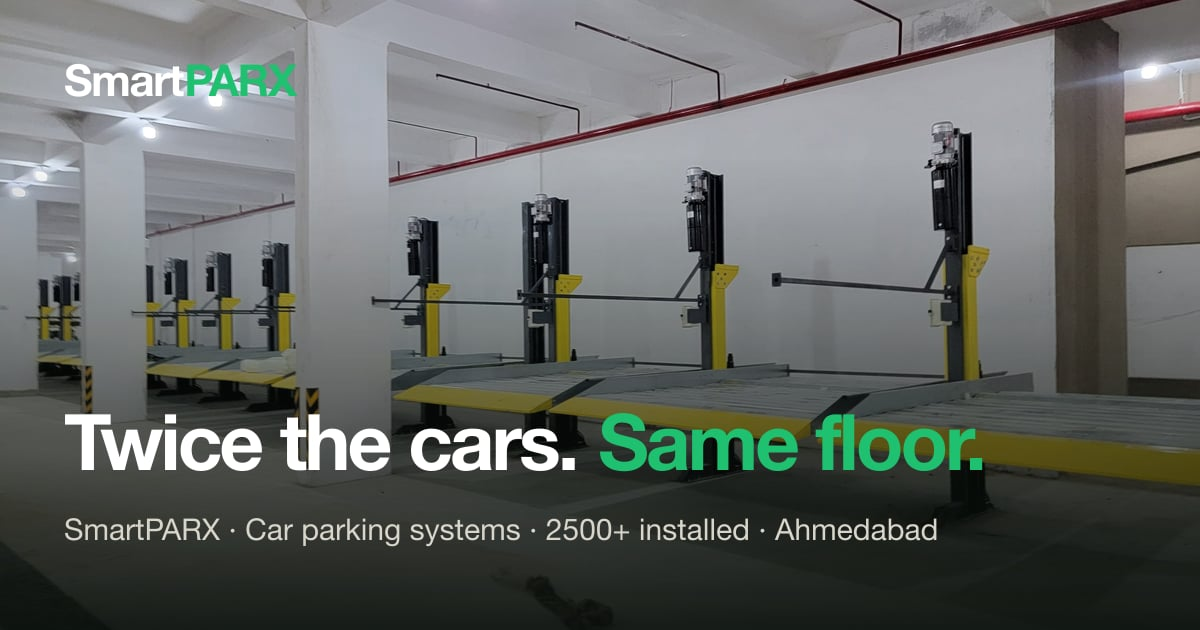
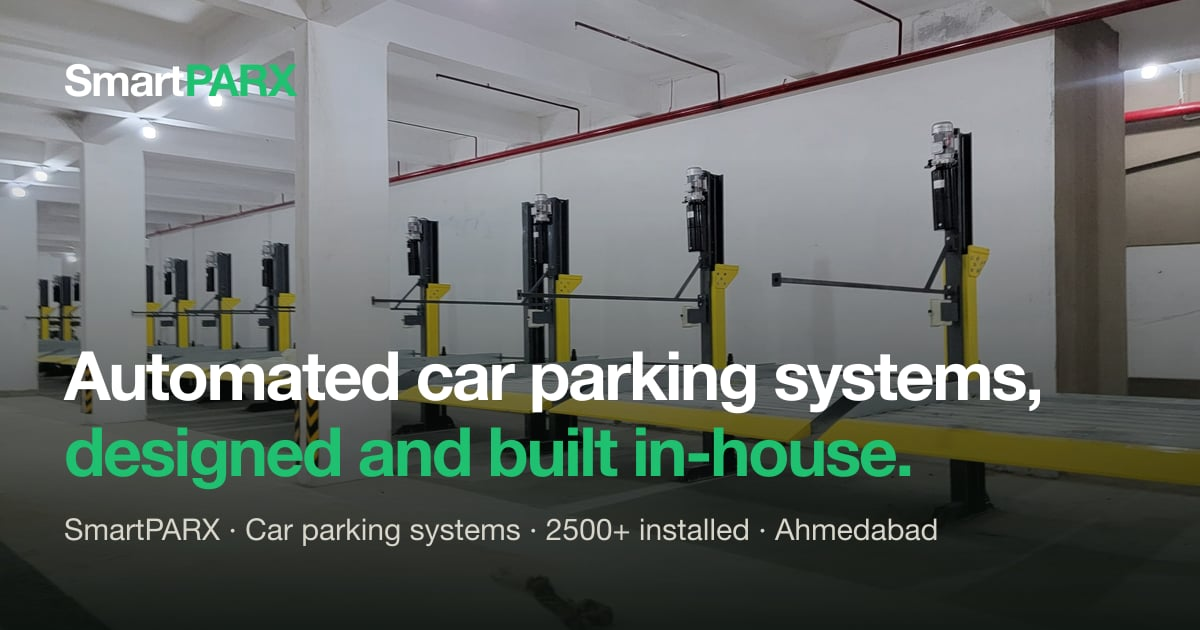
Update text styles across multiple components for consistency and clarity. Introduced new display utility classes for headings, adjusted text sizes in various sections, and replaced outdated content in the Hero and other components to enhance user experience.

Changed region(s): [[0.0308, 0.5429, 0.8633, 0.7841]]

diff --git a/src/styles/global.css b/src/styles/global.css
@@ -193,3 +193,26 @@
     text-wrap: pretty;
   }
 }
+
+/*
+ * Heading scale — the only sizes headings may use. Each step sits clearly below the one above at every width.
+ *   display-hero  homepage H1 only; vw-based so its two lines fit the 8-column hero   38 → 65px
+ *   display-1     every other page H1                                                36 → 54px
+ *   display-2     section H2                                                         30 → 44px
+ *   display-3     sub-section heading, pull quotes                                   24 → 34px
+ */
+@utility text-display-hero {
+  font-size: clamp(2.4rem, 4.3vw, 4.05rem);
+}
+
+@utility text-display-1 {
+  font-size: clamp(2.25rem, 1.5rem + 1.8vw, 3.375rem);
+}
+
+@utility text-display-2 {
+  font-size: clamp(1.875rem, 1.3rem + 1.6vw, 2.75rem);
+}
+
+@utility text-display-3 {
+  font-size: clamp(1.5rem, 1.25rem + 0.9vw, 2.125rem);
+}
